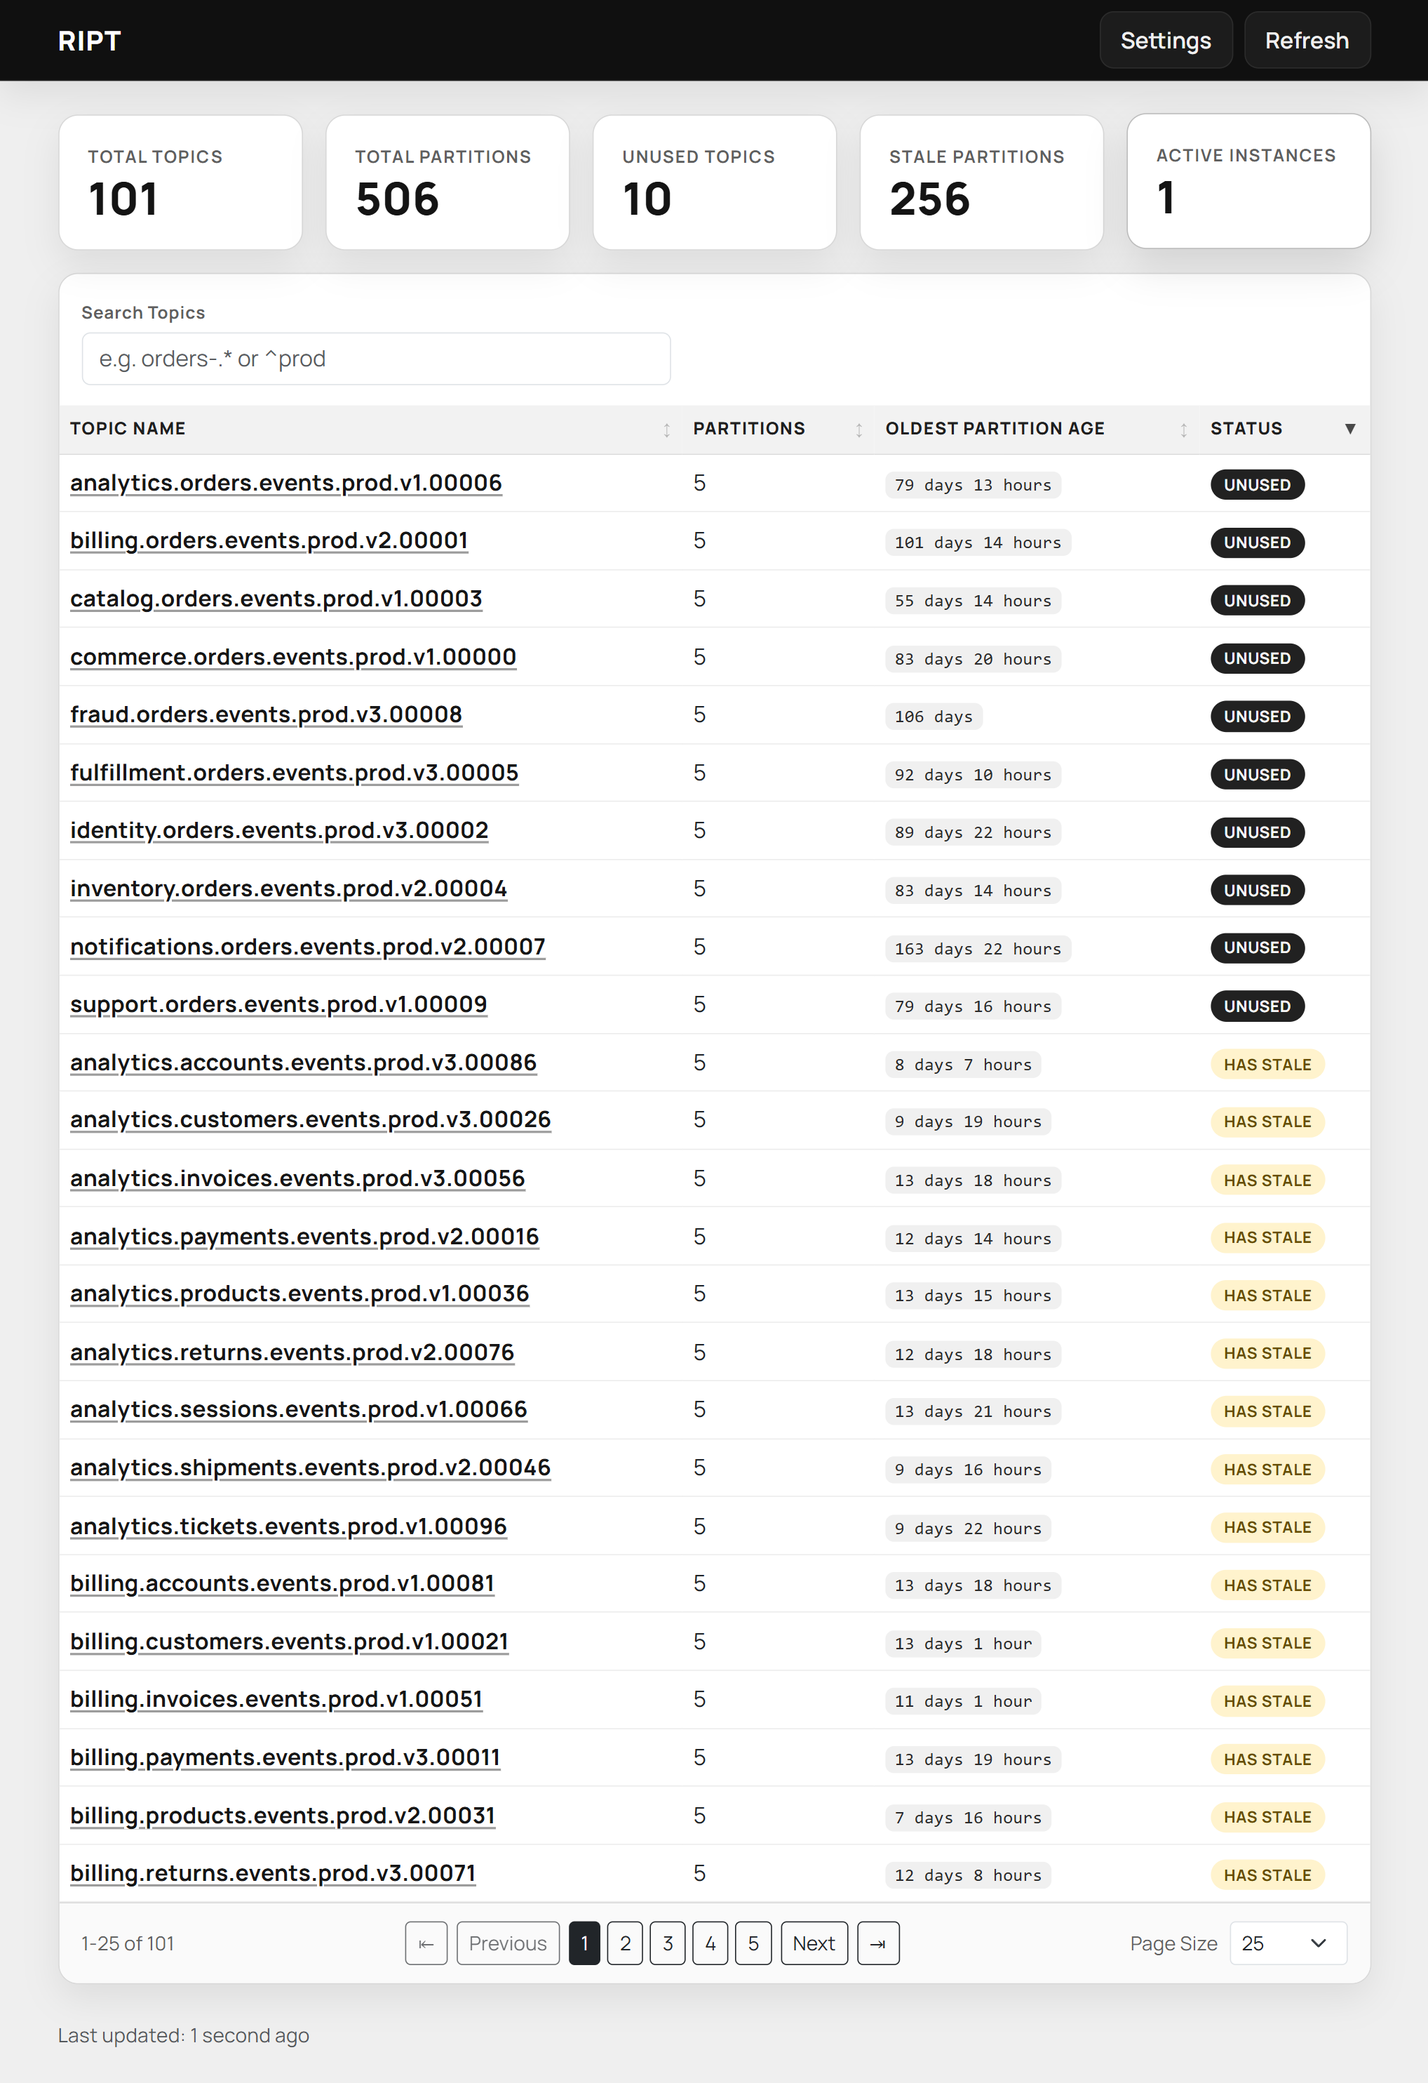
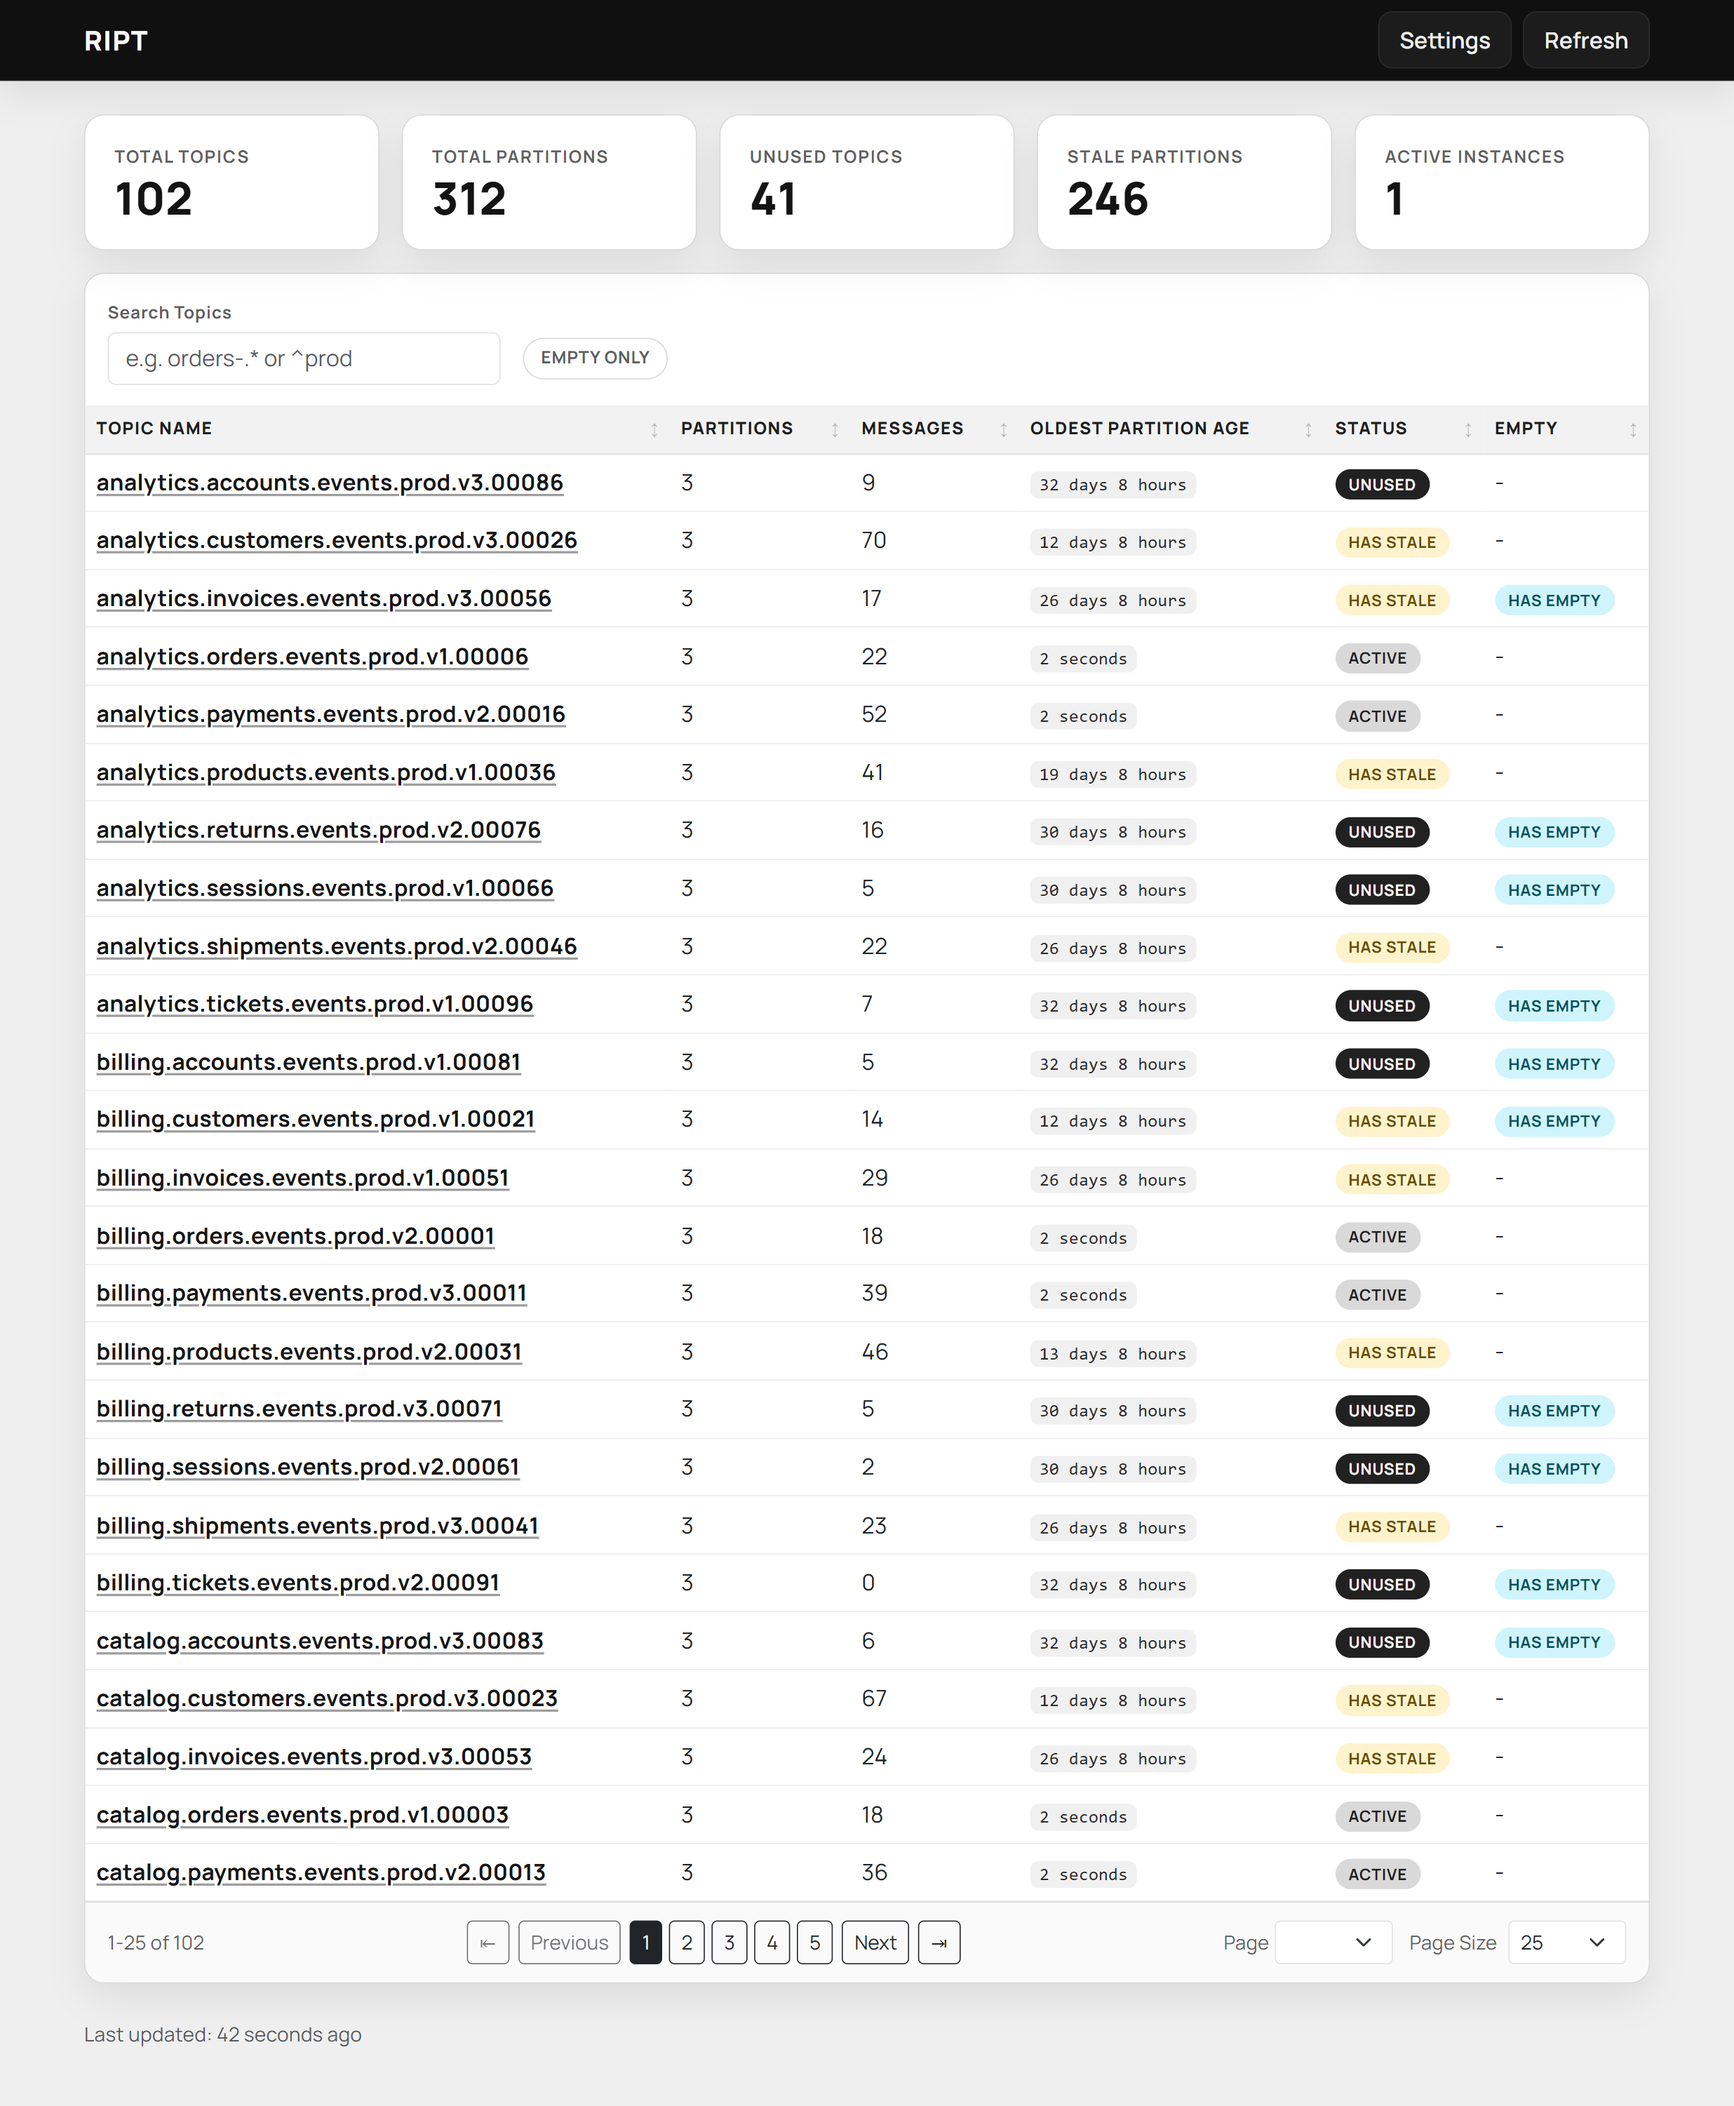
prepare v0.3.2 release

diff --git a/web/static/dashboard.html b/web/static/dashboard.html
@@ -546,7 +546,7 @@
                     <button class="btn btn-sm btn-outline-dark" id="lastPageBtn">⇥</button>
                 </div>
                 <div class="pager-size-group">
-                    <span id="pageInput" class="d-inline-flex align-items-center gap-1" style="display:none !important;">
+                    <span id="pageInput" class="d-inline-flex align-items-center gap-1" style="display:inline-flex;">
                         <span class="subtle">Page</span>
                         <select id="pageInputField" class="form-select form-select-sm" style="width:auto;"></select>
                         <span class="subtle" id="pageInputTotal"></span>
@@ -1071,12 +1071,24 @@
             const pageInputContainer = document.getElementById('pageInput');
             container.innerHTML = '';
 
+            pageInputContainer.hidden = false;
+            pageInputContainer.style.display = 'inline-flex';
+            const pageField = document.getElementById('pageInputField');
+            pageField.innerHTML = '';
+            for (let p = 1; p <= totalPages; p++) {
+                const opt = document.createElement('option');
+                opt.value = p;
+                opt.textContent = p;
+                if (p === effectivePage) opt.selected = true;
+                pageField.appendChild(opt);
+            }
+            document.getElementById('pageInputTotal').textContent = `of ${totalPages}`;
+
             const maxVisible = 7;
             let startPage, endPage;
             if (totalPages <= maxVisible) {
                 startPage = 1;
                 endPage = totalPages;
-                pageInputContainer.style.display = 'none';
             } else {
                 const half = Math.floor(maxVisible / 2);
                 startPage = Math.max(1, effectivePage - half);
@@ -1085,18 +1097,6 @@
                     endPage = totalPages;
                     startPage = Math.max(1, endPage - maxVisible + 1);
                 }
-                pageInputContainer.style.display = '';
-                pageInputContainer.classList.add('d-inline-flex');
-                const pageField = document.getElementById('pageInputField');
-                pageField.innerHTML = '';
-                for (let p = 1; p <= totalPages; p++) {
-                    const opt = document.createElement('option');
-                    opt.value = p;
-                    opt.textContent = p;
-                    if (p === effectivePage) opt.selected = true;
-                    pageField.appendChild(opt);
-                }
-                document.getElementById('pageInputTotal').textContent = `of ${totalPages}`;
             }
 
             for (let p = startPage; p <= endPage; p++) {

diff --git a/CHANGELOG.md b/CHANGELOG.md
@@ -4,7 +4,11 @@ All notable changes to this project will be documented in this file.
 The format is based on [Keep a Changelog](https://keepachangelog.com/en/1.0.0/),
 and this project adheres to [Semantic Versioning](https://semver.org/spec/v2.0.0.html).
 
-## Unreleased
+## v0.3.2 - 2026-05-18
+
+### Fixed
+
+- page selector was not working
 
 ### Added
 
